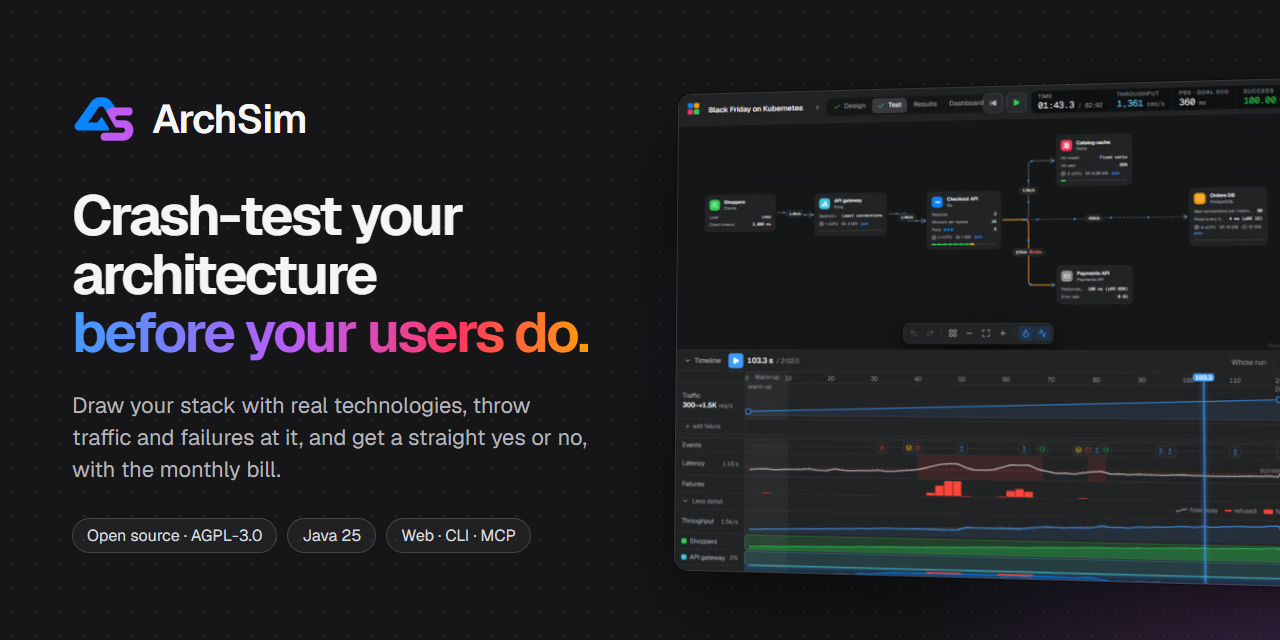
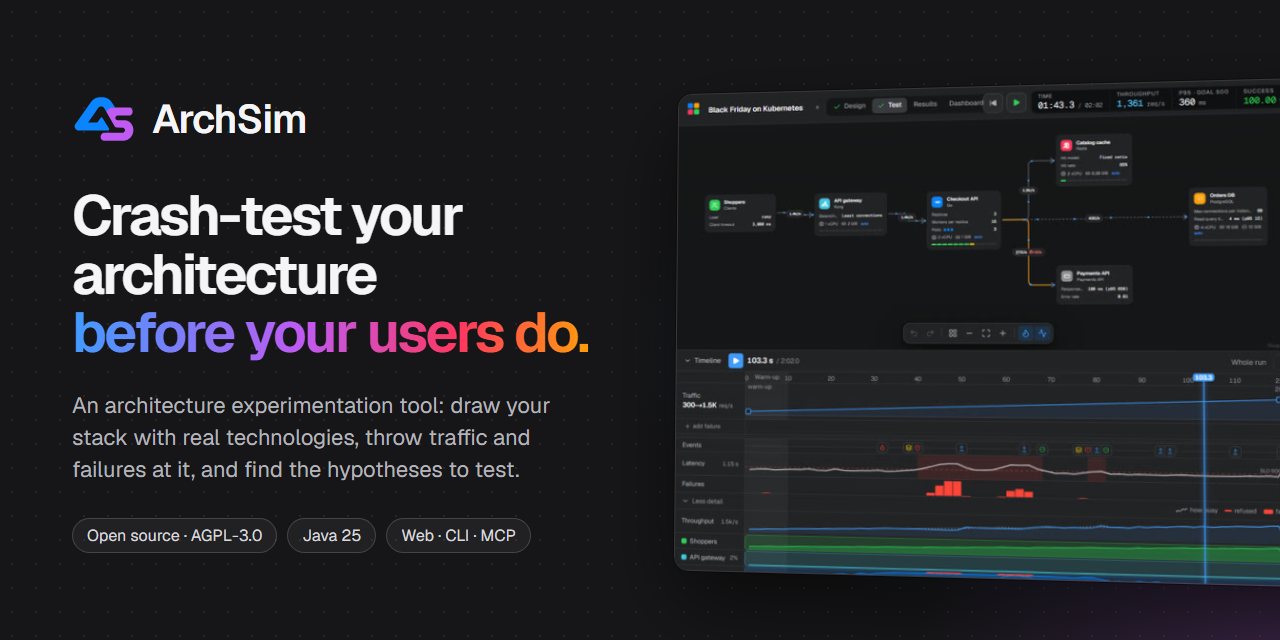
docs: present ArchSim as an experimentation tool whose results are hypotheses to test
Following ADR-0099 (proposed), the README calls ArchSim an architecture experimentation tool, its
third reason is "Hypotheses to test" instead of "A straight answer", the feature list checks
designs in pull requests as a warning instead of gating them and names reviews of runs instead of
sign-offs, and the caveat beside the accuracy figures says what results are not: sign-off, audit
evidence or a deployment gate. It also says the figures are for calibrated models. archsim.io's
accuracy section shows that statement word for word (ADR-0097), so it follows.

docs/ci.md becomes "Checking designs in CI": its examples mark the check's step
continue-on-error, a new section says why to run it as a warning and not as a required check,
and it says why this repository's own CI still fails on it (there it tests ArchSim). features.md,
the docs index, architecture.md, getting-started.md, simulation-model.md and archsim-cli's README
follow, and the social preview's pitch, which said "get a straight yes or no", now reads as the
README does; only those three lines of the image change.

Changed region(s): [[0.0312, 0.625, 0.4688, 0.75]]

diff --git a/README.md b/README.md
@@ -7,9 +7,10 @@
 <h3 align="center">Crash-test your architecture before your users do.</h3>
 
 <p align="center">
-  A flight simulator for distributed systems. Draw your stack with real technologies, throw traffic
-  and failures at it, and get a straight yes or no against your objectives, with the bottleneck,
-  the breaking point and the monthly bill.
+  An architecture experimentation tool for distributed systems. Draw your stack with real
+  technologies, throw traffic and failures at it, and see how each alternative fares against your
+  objectives: the bottleneck, the breaking point and the monthly bill, as hypotheses to test before
+  you build.
 </p>
 
 <p align="center">
@@ -31,7 +32,7 @@
 <p align="center">
   <img src="docs/images/cache-outage.gif" alt="Demo: the cache-aside starter (clients, load balancer, API servers, Redis, PostgreSQL) is opened from the templates gallery and the Lose Redis Cache chaos pad is pressed, which simulates the outage; the replay shows the API servers saturating while every read goes to PostgreSQL, the test plan says Didn't hold up, and the answer is No, it doesn't hold up" width="800">
   <br>
-  <sub>Losing Redis on the cache-aside starter: press a chaos pad and the verdict flips within seconds.</sub>
+  <sub>Losing Redis on the cache-aside starter: press a chaos pad and the simulated answer flips within seconds.</sub>
 </p>
 
 ## Why ArchSim
@@ -43,9 +44,10 @@
 - **Every request, every second.** A discrete-event engine moves each request through every hop,
   queue, lock and retry, then replays the run second by second on your diagram. Same document and
   seed, same result, down to the digest.
-- **A straight answer.** Yes or no against your latency and availability objectives, the
-  bottleneck, what to fix first, the highest load that still holds, and the monthly cost on real
-  AWS instance types.
+- **Hypotheses to test.** Whether a design meets your latency and availability objectives under
+  the assumptions you state, the likely bottleneck, what to try first, the highest load that still
+  meets them and the monthly cost on real AWS instance types: what to check with a prototype or a
+  load test, not production sign-off.
 - **Honest about what it knows.** Every default says whether it is documented or illustrative,
   calibration replaces them with values measured by Prometheus or OpenTelemetry, and the accuracy
   report publishes predictions against real systems, misses included.
@@ -60,7 +62,7 @@
 <td width="50%" valign="top"><img src="docs/images/editor-results.jpg" alt="Test workspace: a Kubernetes checkout service scaled to 3 pods mid-ramp, live request rates on the links, and a timeline of traffic, events, latency and failures beside a test plan that did not hold up" width="380"><br><b>Test with traffic and failures</b><br>Ramp the load, drop a cache, slow a database, then scrub the replay to any second.</td>
 </tr>
 <tr>
-<td width="50%" valign="top"><img src="docs/images/scorecard.jpg" alt="Results Answer tab: No, it doesn't hold up, with p95 561 ms against a 500 ms objective, availability 98.8% against 99.5%, the primary bottleneck, a confidence note and the monthly cost" width="380"><br><b>Get a straight answer</b><br>The verdict, the objective that failed, the bottleneck, what to fix first and the bill.</td>
+<td width="50%" valign="top"><img src="docs/images/scorecard.jpg" alt="Results Answer tab: No, it doesn't hold up, with p95 561 ms against a 500 ms objective, availability 98.8% against 99.5%, the primary bottleneck, a confidence note and the monthly cost" width="380"><br><b>Get an answer to test</b><br>How it fares under your assumptions: the objective that failed, the likely bottleneck, what to try first and the bill.</td>
 <td width="50%" valign="top"><img src="docs/images/tradeoffs.jpg" alt="Results Compare tab: monthly cost plotted against p95 latency for every Black Friday run, from 3 fixed pods at $827 a month to 14 fixed pods at $1,434, the only run that meets the objectives; the autoscaler costs $844 and misses the 500 ms p95 objective line, and a table of the runs follows" width="380"><br><b>Compare the options</b><br>Every scenario on a cost-against-latency map, then a load sweep to find where it breaks.</td>
 </tr>
 <tr>
@@ -78,10 +80,12 @@ And beyond the canvas:
 - **Calibrate** a design from Prometheus metrics or OpenTelemetry traces ([calibration](docs/calibration.md)).
 - **Import** docker-compose, Kubernetes manifests or a Terraform plan, and **export** compose,
   Kubernetes or Mermaid ([import](docs/import.md)).
-- **Gate pull requests** on your objectives with `archsim check` and a GitHub Action ([CI](docs/ci.md)).
+- **Check designs in pull requests** with `archsim check` and a GitHub Action that comments on how
+  a change fares against your objectives and the base branch, as a warning to read rather than a
+  gate ([CI](docs/ci.md)).
 - **Let AI agents drive it** through the MCP server or WebMCP in the browser ([agents](docs/agents.md)).
-- **Work as a team** with GitHub or Google sign-in, workspaces, comments, sign-offs and share links
-  ([deployment](docs/deployment.md)).
+- **Work as a team** with GitHub or Google sign-in, workspaces, comments, reviews of runs and share
+  links ([deployment](docs/deployment.md)).
 
 Every workspace and technology behaviour is described in [docs/features.md](docs/features.md).
 
@@ -172,13 +176,17 @@ These are three runs per experiment on one laptop with engine 1.6.0 (two counted
 third was disturbed). On a typical held-out run ArchSim is level with plain bottleneck arithmetic
 on the same calibration (median error 16.5% against 16.2%). Its advantage is the worst case: −27%
 against +79%. Only one of the five held-out experiments also meets the latency and stability
-criteria, and no technology counts as validated yet: that needs a second machine.
+criteria, and no technology counts as validated yet: that needs a second machine. These figures
+are for models calibrated on the stack they predict; a design on ArchSim's illustrative defaults
+has not been checked this way.
 [docs/validation.md](docs/validation.md) shows every run, where the model is wrong and why,
 and [how to rerun the benchmarks](docs/validation.md#reproduce) on your own machine.
 
-> **Results are estimates, not production guarantees.** Every number comes from the model you drew
-> and the assumptions you entered. Without calibration, trust comparisons between scenarios more
-> than any single absolute value. What is and isn't modeled: [docs/simulation-model.md](docs/simulation-model.md).
+> **Results are hypotheses to test, not production guarantees.** Every number comes from the model
+> you drew and the assumptions you entered. Use them to explore alternatives, challenge
+> assumptions and decide what to prototype or load-test, not as sign-off, audit evidence or a
+> deployment gate. Without calibration, trust comparisons between scenarios more than any single
+> absolute value. What is and isn't modeled: [docs/simulation-model.md](docs/simulation-model.md).
 
 ## Documentation
 
@@ -188,7 +196,7 @@ and [how to rerun the benchmarks](docs/validation.md#reproduce) on your own mach
 | [Features](docs/features.md) | [Troubleshooting](docs/troubleshooting.md) | [Assumptions](docs/assumptions.md) |
 | [Calibration](docs/calibration.md) | [HTTP API](docs/api.md) | [Accuracy](docs/validation.md) |
 | [Import](docs/import.md) and [pricing](docs/pricing.md) | [Security](SECURITY.md) | [Architecture](docs/architecture.md) |
-| [CI gate](docs/ci.md) and [AI agents](docs/agents.md) | [Command line](archsim-cli/README.md) | [Decision records](docs/adr/README.md) |
+| [CI checks](docs/ci.md) and [AI agents](docs/agents.md) | [Command line](archsim-cli/README.md) | [Decision records](docs/adr/README.md) |
 
 Everything else is indexed in [docs/README.md](docs/README.md), and all of it is published at
 [archsim.io](https://archsim.io).

diff --git a/docs/features.md b/docs/features.md
@@ -6,16 +6,18 @@ design from wherever you are, and results land on the canvas right away. A short
 on the first visit (and from the ⋯ menu), and a hint on the canvas says what to do next, for
 example adding API servers behind a lone Clients box.
 
-> **Results are estimates, not production guarantees.** Every number comes from the model you
-> drew and the assumptions you entered. Without calibration against real telemetry, trust
-> comparisons between scenarios more than any single absolute value. See
-> [the simulation model](simulation-model.md) and [how accurate ArchSim is](validation.md).
+> **Results are hypotheses to test, not production guarantees.** Every number comes from the model
+> you drew and the assumptions you entered. Use them to explore alternatives, challenge
+> assumptions and decide what to prototype or load-test, not as sign-off, audit evidence or a
+> deployment gate. Without calibration against real telemetry, trust comparisons between scenarios
+> more than any single absolute value. See [the simulation model](simulation-model.md) and
+> [how accurate ArchSim is](validation.md).
 
 - [Design: draw it with real technologies](#design-draw-it-with-real-technologies)
 - [Test: traffic, failures and replay](#test-traffic-failures-and-replay)
 - [Results: answer, compare, breaking point, details](#results-answer-compare-breaking-point-details)
 - [Dashboard: a Grafana-style view of every run](#dashboard-a-grafana-style-view-of-every-run)
-- [Bring your own system: calibrate, import, price, gate](#bring-your-own-system-calibrate-import-price-gate)
+- [Bring your own system: calibrate, import, price, check](#bring-your-own-system-calibrate-import-price-check)
 - [AI agents](#ai-agents)
 - [Teams, review and sharing](#teams-review-and-sharing)
 - [Everywhere](#everywhere)
@@ -111,8 +113,8 @@ StatefulSets) or Mermaid, as reviewed starting points.
   component's utilization, queue and traffic at that second. The timeline below stays short:
   play, the time, speed, the traffic plan, events, latency against the objective and failures;
   "More detail" adds throughput and a heat lane per component.
-- **A verdict for every test** against its objectives (what must stay true), including what
-  happened during each failure.
+- **Every test checked** against its objectives (what must stay true), including what happened
+  during each failure.
 
 ## Results: answer, compare, breaking point, details
 
@@ -159,7 +161,7 @@ failures) through every hop, wait, lock, log flush and GC pause on a waterfall.
   data" (table and CSV) per panel, and Replay at 1x/4x/10x that draws the run live, shared with the
   Test workspace. Each panel's info popover says how its value is calculated.
 
-## Bring your own system: calibrate, import, price, gate
+## Bring your own system: calibrate, import, price, check
 
 - **Calibrate from your telemetry.** Prometheus metrics (with a mapping file) or an OpenTelemetry
   trace export set service times, hit ratios, link latency and the traffic curve; each input is
@@ -179,9 +181,10 @@ failures) through every hop, wait, lock, log flush and GC pause on a waterfall.
   refreshed monthly; templates and new projects use them, and every dollar figure names its source.
   Designs saved without a snapshot keep the generic illustrative rates. See
   [pricing.md](pricing.md).
-- **An SLO gate in CI.** `archsim check` fails a pull request when a design misses its objectives
-  or regresses against the base branch (p95, success rate, cost, breaking point), and a GitHub
-  Action posts one sticky comment with the comparison. See [ci.md](ci.md).
+- **Design checks in CI.** `archsim check` simulates a design in a pull request and flags it when
+  it misses its objectives or regresses against the base branch (p95, success rate, cost,
+  breaking point), and a GitHub Action posts one sticky comment with the comparison. Run it as a
+  warning to read, not as a gate ([ci.md](ci.md#run-it-as-a-warning)).
 
 ## AI agents
 
@@ -202,7 +205,9 @@ Locally there is no sign-in: you are the owner of one `default` workspace. With 
 ([deployment.md](deployment.md#sign-in-teams-and-api-tokens)), people sign in with GitHub or
 Google, work in personal and team workspaces as viewers, editors or owners, and make API tokens for
 the CLI, CI and MCP. Anyone in a workspace can comment on parts, links and runs, resolve threads and
-sign off a run; every change is recorded in the project's history. A share link is a frozen,
+review a run (approve it or request changes, with a note); every change is recorded in the
+project's history. A review records what the team concluded from a simulated run under its
+assumptions, not evidence that the running system meets its objectives. A share link is a frozen,
 read-only copy of one run's results that anyone with the link can open. The endpoints are in
 [api.md](api.md).
 

diff --git a/docs/ci.md b/docs/ci.md
@@ -1,7 +1,9 @@
-# An SLO gate in CI
+# Checking designs in CI
 
-`archsim check` simulates a design and answers two questions a pull request raises: does it
-still meet its objectives, and is it worse than the base branch?
+`archsim check` simulates a design in a pull request and reports whether it still meets its
+objectives in the simulation and how it compares with the base branch. Its answer is a hypothesis
+under the design's assumptions: run it as a warning that tells a reviewer where to look, not as a
+gate that blocks a merge or a deployment ([Run it as a warning](#run-it-as-a-warning)).
 
 ```bash
 archsim check archsim/design.json --baseline-ref origin/main \
@@ -22,7 +24,7 @@ Regressions compare the design with a baseline: `--baseline other.json`, or the 
 git ref with `--baseline-ref origin/main`. A design that does not exist at that ref (a new
 design) has no baseline and is checked against its objectives only. A ref that cannot be read —
 a typo, or a shallow checkout that does not have it (`actions/checkout` fetches one commit
-unless `fetch-depth: 0`) — is an error (exit 2), never "no baseline", so a gate cannot pass for
+unless `fetch-depth: 0`) — is an error (exit 2), never "no baseline", so a check cannot pass for
 want of the comparison it was asked to make. Thresholds, all changeable:
 
 | Metric | Regression when | Option |
@@ -93,6 +95,7 @@ jobs:
       - uses: actions/checkout@v7
         with: {fetch-depth: 0}   # the base branch, for --baseline-ref
       - uses: ./.github/actions/archsim-check
+        continue-on-error: true  # a warning to read, not a gate
         with:
           design: archsim/design.json
           baseline-ref: origin/${{ github.base_ref }}
@@ -107,6 +110,7 @@ downloads that whole repository with the action, and the action builds ArchSim f
       - uses: actions/checkout@v7
         with: {fetch-depth: 0}
       - uses: <owner>/archsim/.github/actions/archsim-check@<commit-sha>
+        continue-on-error: true  # a warning to read, not a gate
         with:
           design: archsim/design.json
           baseline-ref: origin/${{ github.base_ref }}
@@ -120,6 +124,24 @@ workspace; empty builds the action's own repository). Outputs: `passed`, `exit-c
 requests from forks get a read-only token, so the comment step may fail there without failing
 the job; the job summary always has the result.
 
+## Run it as a warning
+
+A check that fails says the change misses an objective or regresses in the simulation, under the
+design's assumptions. That is a hypothesis about the change, worth a reviewer's look and perhaps
+a load test, not proof that the change is wrong; and a check that passes does not show that the
+running system will meet its objectives. So let the check inform the review rather than decide
+it:
+
+- **Mark the step `continue-on-error: true`**, as the examples above do. The comment, the job
+  summary and the artifact still carry the result, and the job succeeds whether the check passes,
+  fails or cannot run; a check that could not run says so in its comment and summary. In another
+  CI system, let the step fail without failing the pipeline (GitLab's `allow_failure: true`, for
+  example): `archsim check` itself always exits 1 when it fails.
+- **Don't make it a required status check, and don't let it decide a deployment.** Its answer is
+  as good as the design's inputs: calibrate the design from your own telemetry first
+  ([calibration.md](calibration.md)), and read [how accurate ArchSim is](validation.md) on the
+  stacks it was checked against; no technology counts as validated yet.
+
 ## Checking infrastructure changes
 
 With [import](import.md), a change to Kubernetes manifests, a compose file or a Terraform plan
@@ -132,13 +154,15 @@ archsim check /tmp/head.json --baseline /tmp/base.json --fail-on regression
 ```
 
 An imported design has default traffic and no objectives (infrastructure files state neither),
-so regressions are the useful gate there: replicas, sizes and topology changes move p95, the
+so regressions are the useful signal there: replicas, sizes and topology changes move p95, the
 breaking point and cost. A team that keeps `archsim/design.json` with its own traffic and
 objectives can check that file instead.
 
 This repository's CI runs the action on `examples/cache-aside-starter.json`
 (`.github/workflows/ci.yml`, job `archsim-check`): pull requests against their base branch
-(`origin/<base>`), pushes against the previous commit (`HEAD~1`).
+(`origin/<base>`), pushes against the previous commit (`HEAD~1`). There the job fails with the
+check, because it tests ArchSim itself (the action, the CLI and the engine on a template whose
+objectives it must keep meeting), not the design of a system that will run.
 
 ## Release images
 

diff --git a/archsim-cli/README.md b/archsim-cli/README.md
@@ -35,7 +35,7 @@ same values (ADR-0055). Help and usage errors are picocli's words; a usage error
 | `archsim calibrate otlp FILE --traces FILE [--map FILE] [-o FILE]` | a design's inputs set from an OpenTelemetry trace export (OTLP JSON), with an optional mapping of services and databases to parts |
 | `archsim import compose\|k8s\|terraform FILE [--name NAME] [-o FILE] [--report FILE]` | a design from a docker-compose file, Kubernetes manifests or a Terraform plan (`FILE` `-` for standard input; UTF-8, or UTF-16 after its byte order mark), as JSON; what was mapped, guessed and ignored, the links to confirm and the counts on standard error; text the import refuses: `cannot import: ...`, exit code 2 |
 | `archsim export compose\|k8s\|mermaid FILE [-o FILE]` | docker-compose, Kubernetes manifests or a Mermaid diagram of a design, auto-sized; an invalid design's issues on standard output, exit code 1 |
-| `archsim check FILE [--scenario ID] [--baseline FILE \| --baseline-ref REF] [--fail-on objectives\|regression]... [--max-p95-increase X] [--max-success-drop X] [--max-cost-increase X] [--max-knee-drop X] [--knee] [--format markdown\|json] [-o FILE] [--json-out FILE] [--report-url URL]` | an SLO gate for CI, as the GitHub Action runs it: the design simulated and judged against its objectives and, with a baseline from a file or the design's file at a git ref, against it; the pull-request comment (Markdown) or the result (JSON) on standard output or `-o`, the verdict on standard error; exit code 0 for a pass, 1 for a failure, 2 for anything else ([below](#archsim-check)) |
+| `archsim check FILE [--scenario ID] [--baseline FILE \| --baseline-ref REF] [--fail-on objectives\|regression]... [--max-p95-increase X] [--max-success-drop X] [--max-cost-increase X] [--max-knee-drop X] [--knee] [--format markdown\|json] [-o FILE] [--json-out FILE] [--report-url URL]` | a design check for CI, as the GitHub Action runs it ([ci.md](../docs/ci.md), which recommends running it as a warning): the design simulated and judged against its objectives and, with a baseline from a file or the design's file at a git ref, against it; the pull-request comment (Markdown) or the result (JSON) on standard output or `-o`, the verdict on standard error; exit code 0 for a pass, 1 for a failure, 2 for anything else ([below](#archsim-check)) |
 | `archsim catalog` | every component type, as JSON |
 | `archsim schema` | the design document's JSON Schema |
 

diff --git a/docs/README.md b/docs/README.md
@@ -21,7 +21,7 @@ Everything about using, running, trusting and changing ArchSim. New here? Start 
 | [Calibration](calibration.md) | Setting a design's inputs from Prometheus metrics or OpenTelemetry traces |
 | [Importing a design](import.md) | Starting from docker-compose, Kubernetes manifests or a Terraform plan |
 | [Prices and machine shapes](pricing.md) | Real instance types and price snapshots behind every cost line |
-| [An SLO gate in CI](ci.md) | `archsim check` and the GitHub Action that comments on pull requests |
+| [Checking designs in CI](ci.md) | `archsim check` and the GitHub Action that comments on pull requests, run as a warning |
 | [AI agents](agents.md) | The MCP server for coding agents and the WebMCP tools in the browser |
 | [Performance](performance.md) | How fast the engine answers, and the sampled mode for long runs |
 

diff --git a/docs/architecture.md b/docs/architecture.md
@@ -37,7 +37,7 @@ flowchart LR
 
 The `archsim` command ([`archsim-cli/README.md`](../archsim-cli/README.md)) on the Java engine,
 without the API or a database: `validate`, `run`, `analyze`, `compare`, `calibrate`, `import`,
-`export`, `check` (the CI gate, which the `archsim-check` action runs from an image the job
+`export`, `check` (the CI check, which the `archsim-check` action runs from an image the job
 builds; see [`ci.md`](ci.md)), `catalog` and `schema`. It replaced the Python engine's CLI with
 the same flags, lines and exit codes
 ([ADR-0055](adr/0055-the-java-clis-output-contract.md)). The benchmark harness,

diff --git a/docs/getting-started.md b/docs/getting-started.md
@@ -178,7 +178,7 @@ archsim check examples/cache-aside-starter.json --baseline-ref origin/main --fai
 tier without simulating. Untrusted documents are bounded: the wall-clock limit and cancellation
 hold inside the event loop, and a design whose one request would fan out into more than 10,000
 calls is rejected (`design.amplification`). Every command, flag and exit code is in
-[archsim-cli's README](../archsim-cli/README.md); the CI gate is in [ci.md](ci.md).
+[archsim-cli's README](../archsim-cli/README.md); checking designs in CI is in [ci.md](ci.md).
 
 ## The MCP server
 

diff --git a/docs/simulation-model.md b/docs/simulation-model.md
@@ -815,7 +815,7 @@ at most 15% (or no fit error recorded), or documented.
 - **Medium:** otherwise.
 
 The web app shows the badge and the reason next to every verdict, the Markdown report and
-`archsim run` print them, the CI gate's comment carries them, and the MCP tools return them.
+`archsim run` print them, the CI check's comment carries them, and the MCP tools return them.
 Confidence is not part of `resultDigest`.
 
 ## Instant estimate (`estimate`)
